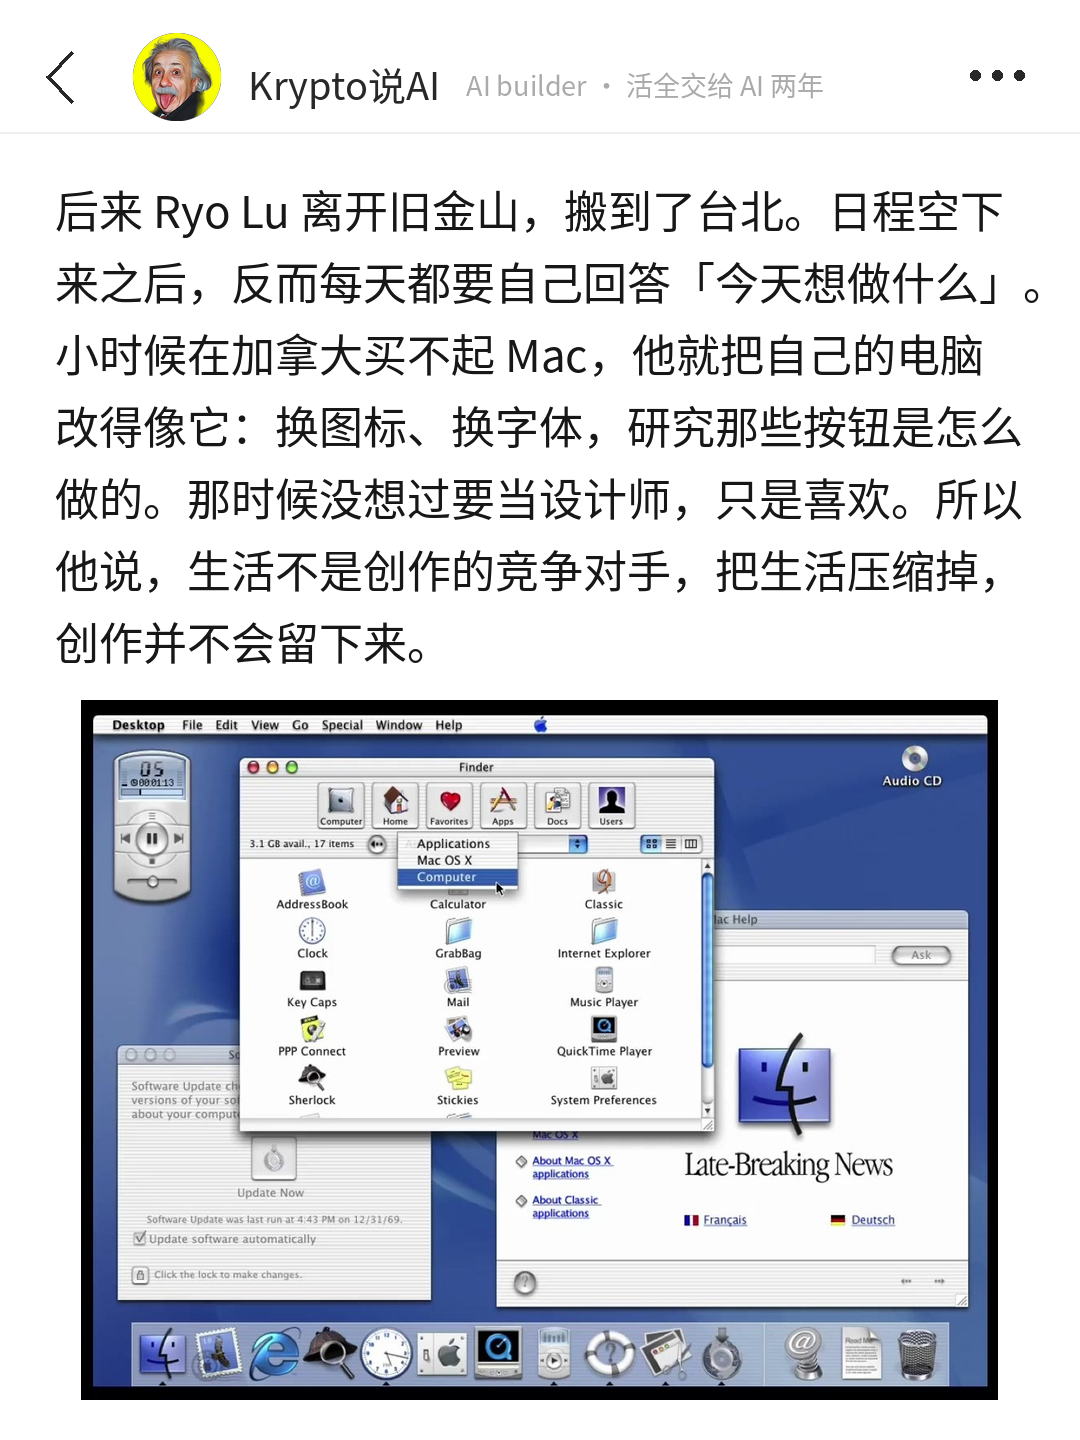
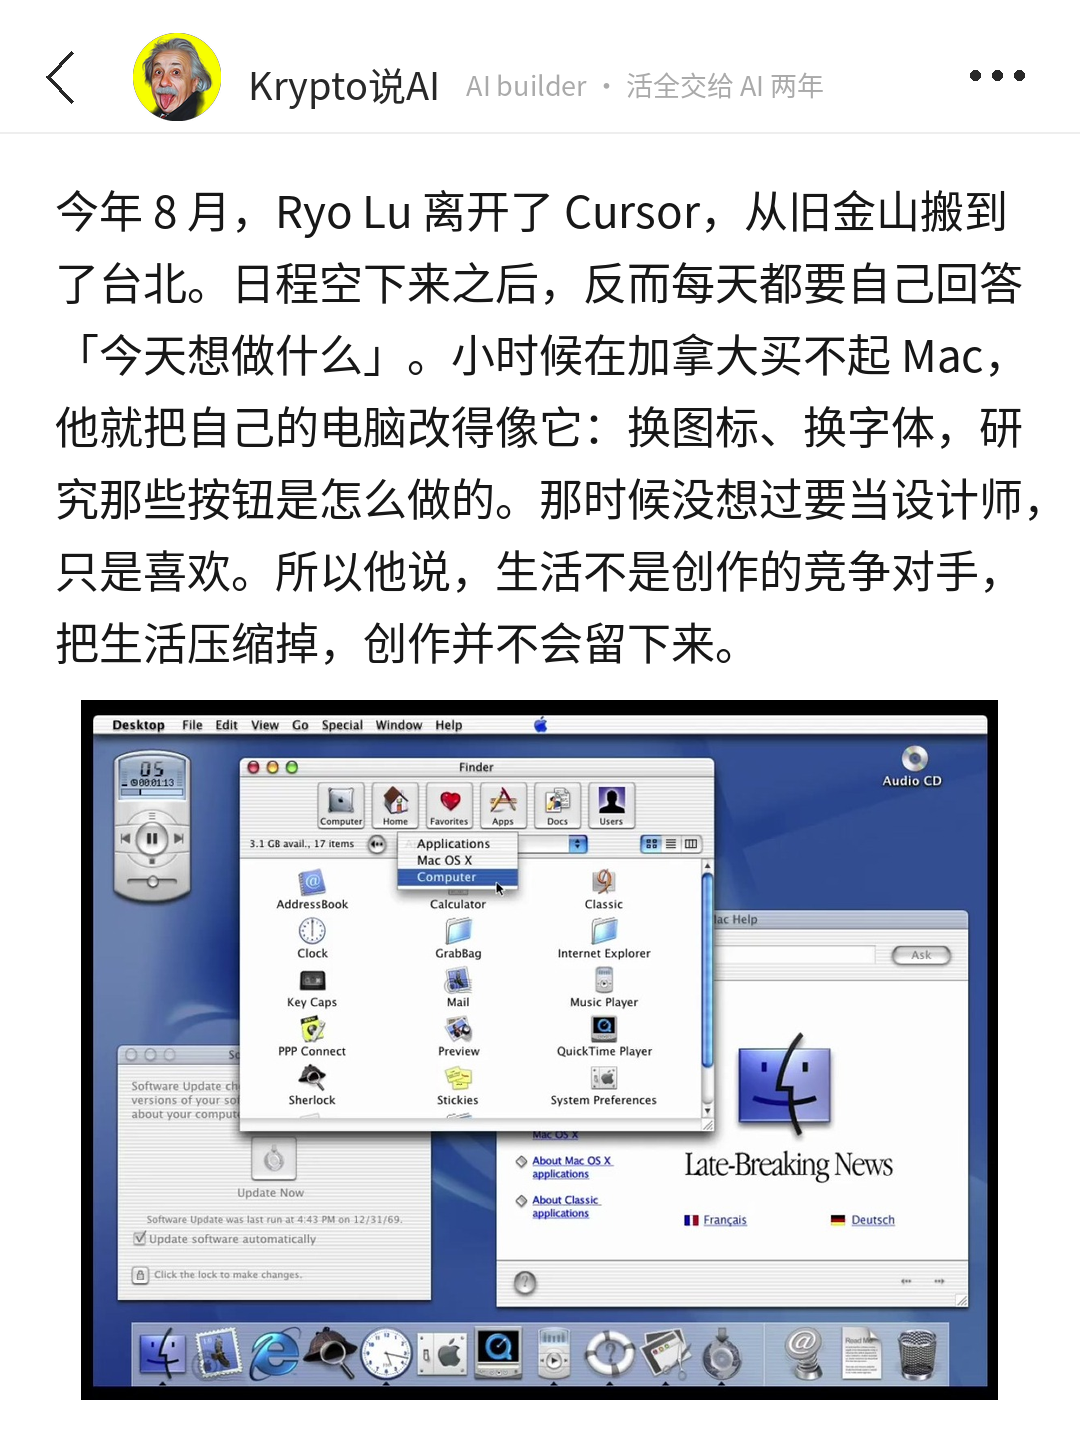
Ryo Lu 稿：核实已于 8 月离开 Cursor，正文和备选标题按前任身份改
Claude-Session: https://claude.ai/code/session_01NaeRTdovKQRjTKC8dSdh9D

Changed region(s): [[0.0306, 0.125, 0.9472, 0.4688]]

diff --git a/CLAUDE.md b/CLAUDE.md
@@ -4,7 +4,7 @@
 
 ## 摘要
 - **11-09 Tulsee Doshi × Lenny 播客稿（meme-v2，retell，value 信息 + 框架，立场 A 默认，`发布/2026-11-09_tulsee-doshi-gemini-pm/meme-v2版/`，12 页 + 名片卡，待用户看）**：素材是用户发来的 Lenny's Podcast 转录（谷歌 Gemini / 前沿模型产品负责人 Tulsee Doshi，《Why PMs are suddenly valuable again》）+ 20 张截帧。先问只答了两条：① 「会看校招生的ai模型的敏感度，saytype我也做了」② 价值选信息和框架；②⑤⑥ 没答，立场默认 A、cost 无。门票用身份「谷歌Gemini负责人」，题材是 PM / 找工作怎么办。起法是自己工作里正在发生的事（面校招生看模型敏感度），对上她招 PM 先看「每天玩不玩模型」；四个分条：招人看什么（+ 我的面试题换过一轮，经历库 #26）/ 第一个评测从 5 条提示词开始（Lenny 自己承认新模型来了不知道试什么）/ 60-20-20 + Boris Cherny 隔一阵删 skills / 先问 AI 能不能替我做 + 她最爱 Wispr Flow（手腕伤）对上我的 SayType（#23 #24，回指 10-17 稿）；收在「数据归模型、洞察归人」「X 是新的 PRD」→ 判断段 → 结尾问面试 PM 问全流程还是问新模型。图：`shots/05_5358` 同框 hero，自绘 `hire.png` `eval.png` `rule.png` `split.png`，`question.png`（沿用 11-04 面试题卡加「对新模型敏不敏感」），SayType 截图，四张单人 / 同框截帧，每页有图。check 0 ✗ 2 ⚠（数字 12 / 千字和开头 5 锚点是框架稿常态，留）。标题「谷歌Gemini负责人：产品经理又值钱了」（20 字，产品经理比 PM 好搜；首页 headline 用一行的「谷歌Gemini负责人：PM又值钱了」，「产品经理」版放首页会掉一个「了」到第二行），备选「谷歌招PM，先看你每天玩不玩模型」「强烈推荐谷歌Gemini负责人这期播客。」
-- **11-09 Ryo Lu 中文演讲稿（meme-v2，retell，value 框架，立场 A，`发布/2026-11-09_ryo-lu-talk/meme-v2版/`，12 页 + 名片卡，待用户看）**：素材是用户发来的转录 + 20 张截帧（Cursor 设计负责人 Ryo Lu《当我们什么都能做，还知道自己想做什么吗》，约 22 分钟，截帧只到 700 秒；会场日期未知）。先问走了，用户答：Claude 给的方案很完善、没认真想过合理性就落地会反噬自己；低复杂度直接交 AI 闭环落地，复杂的先走 Plan Mode 拆解、确认逻辑再执行（经历库 #41，观点库 #34）；他还是 Cursor 设计负责人。价值 / 立场 / 代价细节没答，默认框架 + A，cost 按原话不编具体哪次。起法是主角在台上的时刻（让 AI 做记录生活工具、两分钟交回四个功能、他差点说那好吧），跟上一篇（判断起法）不同。四点：完整答案盖住没形成的问题 → 先挑一样想去掉的 → 服务窗口和工作台（「我」的 Plan Mode 分流，`mine.png`）→ 工具在那里不代表一直要用（email、搬台北、小时候改电脑像 Mac）→ 判断 → 他的建议 → 问读者。每页一张图：截帧裁的 hero / 讲台 / 画布 / 服务窗口 vs 工作台 / Mac / 结尾两张，自绘 `quote.png` `pick.png` `table.png` `mine.png` `email.png`。check 0 ✗ 2 ⚠（开头锚点 5、「对」是对错的对）。标题「Cursor设计师：答案完整，不等于想过」（20 字），备选「强烈推荐Cursor设计负责人这场演讲。」「Cursor设计负责人：我是不是又落后了」。**11-09 用户嫌截图模糊、问有没有更清晰素材**：查到出处是 AI Engineer 上海大会 11-05 主会场（官方 YouTube y9Sg--RDtks，标题写「Ryo Lu, ex-Cursor」；大会嘉宾页写「Founding Designer, ex-Cursor」，跟用户说的「还是 Cursor 设计负责人」对不上，正文改成「做过 Cursor 的设计负责人」、正文.txt 写「前 Cursor 设计负责人」，待用户定）。云端 yt-dlp 被 YouTube 拦（要登录 cookies），拿到的是官方缩略图 1280×720（`编辑用/yt_thumb.jpg`，裁脸成横幅 `face.jpg`）和大会嘉宾页头像 600×600（`headshot_w.jpg`），换掉两张模糊的讲台小窗截图；幻灯片画面要更清晰得用户在 Mac 上从原片截。**用户再定：大头照没有信息量，不要放进图文**（以后同类稿人像只当首页 hero 可选，正文里放有信息的素材或可视化）→ 第 2 页换演讲标题页 `title.jpg`（截帧 15 秒），结尾大头照和 `plan.jpg` 去掉，换自绘 `advice.png`（他留的三步：问哪个决定没想过 → 改一小处 → 拿给另一个人看），建议段压成一句，问读者收尾，11 页正文 + 名片卡每页有图
+- **11-09 Ryo Lu 中文演讲稿（meme-v2，retell，value 框架，立场 A，`发布/2026-11-09_ryo-lu-talk/meme-v2版/`，12 页 + 名片卡，待用户看）**：素材是用户发来的转录 + 20 张截帧（Cursor 设计负责人 Ryo Lu《当我们什么都能做，还知道自己想做什么吗》，约 22 分钟，截帧只到 700 秒；会场日期未知）。先问走了，用户答：Claude 给的方案很完善、没认真想过合理性就落地会反噬自己；低复杂度直接交 AI 闭环落地，复杂的先走 Plan Mode 拆解、确认逻辑再执行（经历库 #41，观点库 #34）；他还是 Cursor 设计负责人。价值 / 立场 / 代价细节没答，默认框架 + A，cost 按原话不编具体哪次。起法是主角在台上的时刻（让 AI 做记录生活工具、两分钟交回四个功能、他差点说那好吧），跟上一篇（判断起法）不同。四点：完整答案盖住没形成的问题 → 先挑一样想去掉的 → 服务窗口和工作台（「我」的 Plan Mode 分流，`mine.png`）→ 工具在那里不代表一直要用（email、搬台北、小时候改电脑像 Mac）→ 判断 → 他的建议 → 问读者。每页一张图：截帧裁的 hero / 讲台 / 画布 / 服务窗口 vs 工作台 / Mac / 结尾两张，自绘 `quote.png` `pick.png` `table.png` `mine.png` `email.png`。check 0 ✗ 2 ⚠（开头锚点 5、「对」是对错的对）。标题「Cursor设计师：答案完整，不等于想过」（20 字），备选「强烈推荐Cursor设计负责人这场演讲。」「Cursor设计负责人：我是不是又落后了」。**11-09 用户嫌截图模糊、问有没有更清晰素材**：查到出处是 AI Engineer 上海大会 11-05 主会场（官方 YouTube y9Sg--RDtks，标题写「Ryo Lu, ex-Cursor」；大会嘉宾页写「Founding Designer, ex-Cursor」，跟用户说的「还是 Cursor 设计负责人」对不上，正文改成「做过 Cursor 的设计负责人」、正文.txt 写「前 Cursor 设计负责人」，待用户定）。云端 yt-dlp 被 YouTube 拦（要登录 cookies），拿到的是官方缩略图 1280×720（`编辑用/yt_thumb.jpg`，裁脸成横幅 `face.jpg`）和大会嘉宾页头像 600×600（`headshot_w.jpg`），换掉两张模糊的讲台小窗截图；幻灯片画面要更清晰得用户在 Mac 上从原片截。**用户再定：大头照没有信息量，不要放进图文**（以后同类稿人像只当首页 hero 可选，正文里放有信息的素材或可视化）→ 第 2 页换演讲标题页 `title.jpg`（截帧 15 秒），结尾大头照和 `plan.jpg` 去掉，换自绘 `advice.png`（他留的三步：问哪个决定没想过 → 改一小处 → 拿给另一个人看），建议段压成一句，问读者收尾，11 页正文 + 名片卡每页有图。**11-09 核实在职状态**：他本人博客 ryo.lu/journal 2026-08-10「i left Cursor」，去亚洲重新开始，之后到 11-06 的日志没提新东家；正文改「今年 8 月离开 Cursor，从旧金山搬到台北」，备选标题改「前Cursor设计师」，主标题「Cursor设计师：…」待用户定要不要加「前」（加了 21 字）
 - **11-08 对标 YouTube「How to Actually Get Your Shit Together Before 2027」（`对标/YouTube_GetYourShitTogether/`，用户发两段 mov，约 4 分钟，拆解 + 英文转录 + 截帧）**：自我提升 edit 类：第一人称旁白（一句答案开头「找出让一切更难的那一件事」、「生活在给你信息」一个比喻用到底、描述 vs 解释的翻转、睡眠→精力→工作→压力闭环、纸笔两个问题当行动）+ 全程电影 / 动画 / 颁奖礼片段混剪（约 2.4 秒一切）+ 逐词弹出的白色粗体动态字幕、黄色斜体关键句 + 红 / 黑 / 米白纯色卡 + 黑底手绘「五个框连到 Core Problem」。用户问能不能找到一模一样的素材做中文版：**没做**，素材全是版权影视片段、旁白是别人原创稿（逐句翻译 = 搬运，碰「只学结构」边界）、题材跟 AI 无关过不了门票；拆解第五节给了三种落法（A 同机制换 AI 题 + 复刻音色 + 代码画字幕 / 手绘图，推荐；B 纯动态排版；C 解说原片，不推荐），待用户选并答三个问题
 - **11-08 Addy Osmani《Your Coding Agents Made You a Manager》稿（meme-v2 第 15 篇，观察，value 信息 + 框架，立场 D，`发布/2026-11-08_addy-osmani-managing-agents/meme-v2版/`，8 页 + 名片卡，待用户看）**：素材是用户发来的 X 长文打包（Addy Osmani，Claude Code 团队，11-08，14.8 万浏览 3447 收藏；全文 + 封面 + 头像存 `编辑用/source.md`、`shots/`）。先问走了：用户要我先解释九条，答「每多一个 agent 多分走一份注意力，这几条我都非常认可」、价值信息 + 框架、第 ④ 问断在「agent 像」，其余「你定」。按 11-08 八条模板写：门票用身份「Claude 团队」（Addy 路人不认识）；起法是主角狼狈时刻（差点合并 600 行、测试全绿、全是用户用不上的复杂度），跟上一篇（自己工作里的事）不同；五个分条的点（自己能跑的验收 / 只说它看不到的 / 纠正第二次写下来 + 只锁死不能变的 / 交任务不交判断 / 编排税）；「我」三次：四五个窗口心里一紧 → 规则文件越写越长是替模型做了它能做的判断（#40）→ 并行丢念头（#39）+ 五个里只有两个有验收；stance 进观点库 #33（归 D）；cost = 并行丢念头。图 4 张：封面图当 hero（headline + 两段 + 图在第 1 页）、`rules.png`（请求 vs 强制）、`tax.png`（编排税示意柱图）、Addy 头像在结尾前。check 0 ✗ 6 ⚠（备选标题没带 Claude Code、开头锚点 8、电报分句 4.1、「看」收尾，都留）。标题「Claude团队：用AI的人，早就是经理」（19 字，keyword Claude），备选「Claude团队：测试全绿，照样不能合」「强烈推荐Claude团队这篇长文。」「看来很多人没看懂Claude团队这篇。」。正文.txt 领取物是睡前开长任务的五个问题。八条模板逐条：门票 ✓ 身份、题材 ✓ 带 agent 的人怎么办、标题 ✓ 身份 + 反差、前两行 ✓ 主角时刻、分条 ✓ 5 点、口吻 ✓ 😅 + 心里一紧、首页 ✓ headline + 两段 + 图 / 图 4 张自绘 2、结尾 ✓ 问读者带自己的答案。用户第 ④ 问（agent 像什么）没答完。**用户看初稿退两条（11-08）**：开头写得不好（人名 + 600 行起笔，路人不认识 Addy）；后面一页全是字，**每一页至少带一个原文素材或可视化**（第五次同样要求，`账号/爆文方法论.md` 第五节第 7 条和两个 SKILL 改回硬规则，上午的「每页有图撤」收回）。改：开头换成判断起法「用 Claude Code 干活的人，每天都在做一件经理的事……只是没人叫你经理」+ 第二段 Addy 身份和文章；600 行那一幕挪到第 4 点当例子；新加 `check.png`（没验收 vs 有验收流程）、`context.png`（别写 / 要写）、`judge.png`（交给 agent / 留给人）、`quote.png`（五个 agent 一次合并冲突原话卡）、`mine.png`（我的五个 agent 只有两个有验收）、第 2 页先放头像横裁、用户说「很突兀」→ 换成 `manage.png`（经理六件事 vs 带 agent 的你 对照表）；删类比不成立那段；12 页（11 页正文 + 名片卡）每页有图。改前存 `draft_v1_人名开头_纯文字页.md`。**用户定标题 / headline「Claude官方：人人都是经理」**（12 字），备选不变
 - **11-08 youtube-xhs 按 Better Living 五条改完（用户定「按这五条改」）**：`render_frame.py` 标题改黑体、第二行自动强调色；`compose_frame.py` 字幕压进原片底边（居中，先画一块整幅半透明矩形再叠字，中文 52 号最多两行、英文 28 号）、新增章节层（`_work/chapters.json` 或 `--chapters`，CH1 白 / CH2 强调色两行 58 号，按 start 切换，自动减掉跳过的片头；没有就提醒）、`--bg` 默认改 solid；`render_panel.shoot` 云端无头 Chromium 截不出图时退到 Playwright（Python 没装就走 Node 版）；`templates/video_frame.md` 重写版面图、字幕、章节、钩子首选「对读者说的一句话」、三条反模式；`video_post.md` 同步；SKILL 0.5 加四条门票（账号四条视频没有一条同时过名字和题材）、步骤 2 加 chapters.json 和 `章节.txt`、预览出两帧、步骤 5 和交付自查加章节。用 ffmpeg 合成的 30 秒测试片走通 preview 和整片压制（1080×1920、30fps）。还没用真素材出过一条，下一条视频按新版式出

diff --git a/发布/2026-11-09_ryo-lu-talk/meme-v2版/编辑用/draft.md b/发布/2026-11-09_ryo-lu-talk/meme-v2版/编辑用/draft.md
@@ -63,7 +63,7 @@ Ryo Lu 拿 email 打比方：有了 email，不代表任何时间、任何事情
 
 ![AI 也一样](email.png)
 
-后来 Ryo Lu 离开旧金山，搬到了台北。日程空下来之后，反而每天都要自己回答「今天想做什么」。小时候在加拿大买不起 Mac，他就把自己的电脑改得像它：换图标、换字体，研究那些按钮是怎么做的。那时候没想过要当设计师，只是喜欢。所以他说，生活不是创作的竞争对手，把生活压缩掉，创作并不会留下来。
+今年 8 月，Ryo Lu 离开了 Cursor，从旧金山搬到了台北。日程空下来之后，反而每天都要自己回答「今天想做什么」。小时候在加拿大买不起 Mac，他就把自己的电脑改得像它：换图标、换字体，研究那些按钮是怎么做的。那时候没想过要当设计师，只是喜欢。所以他说，生活不是创作的竞争对手，把生活压缩掉，创作并不会留下来。
 
 ![他小时候买不起 Mac，就把自己的电脑改得像它](mac_c.jpg)
 
